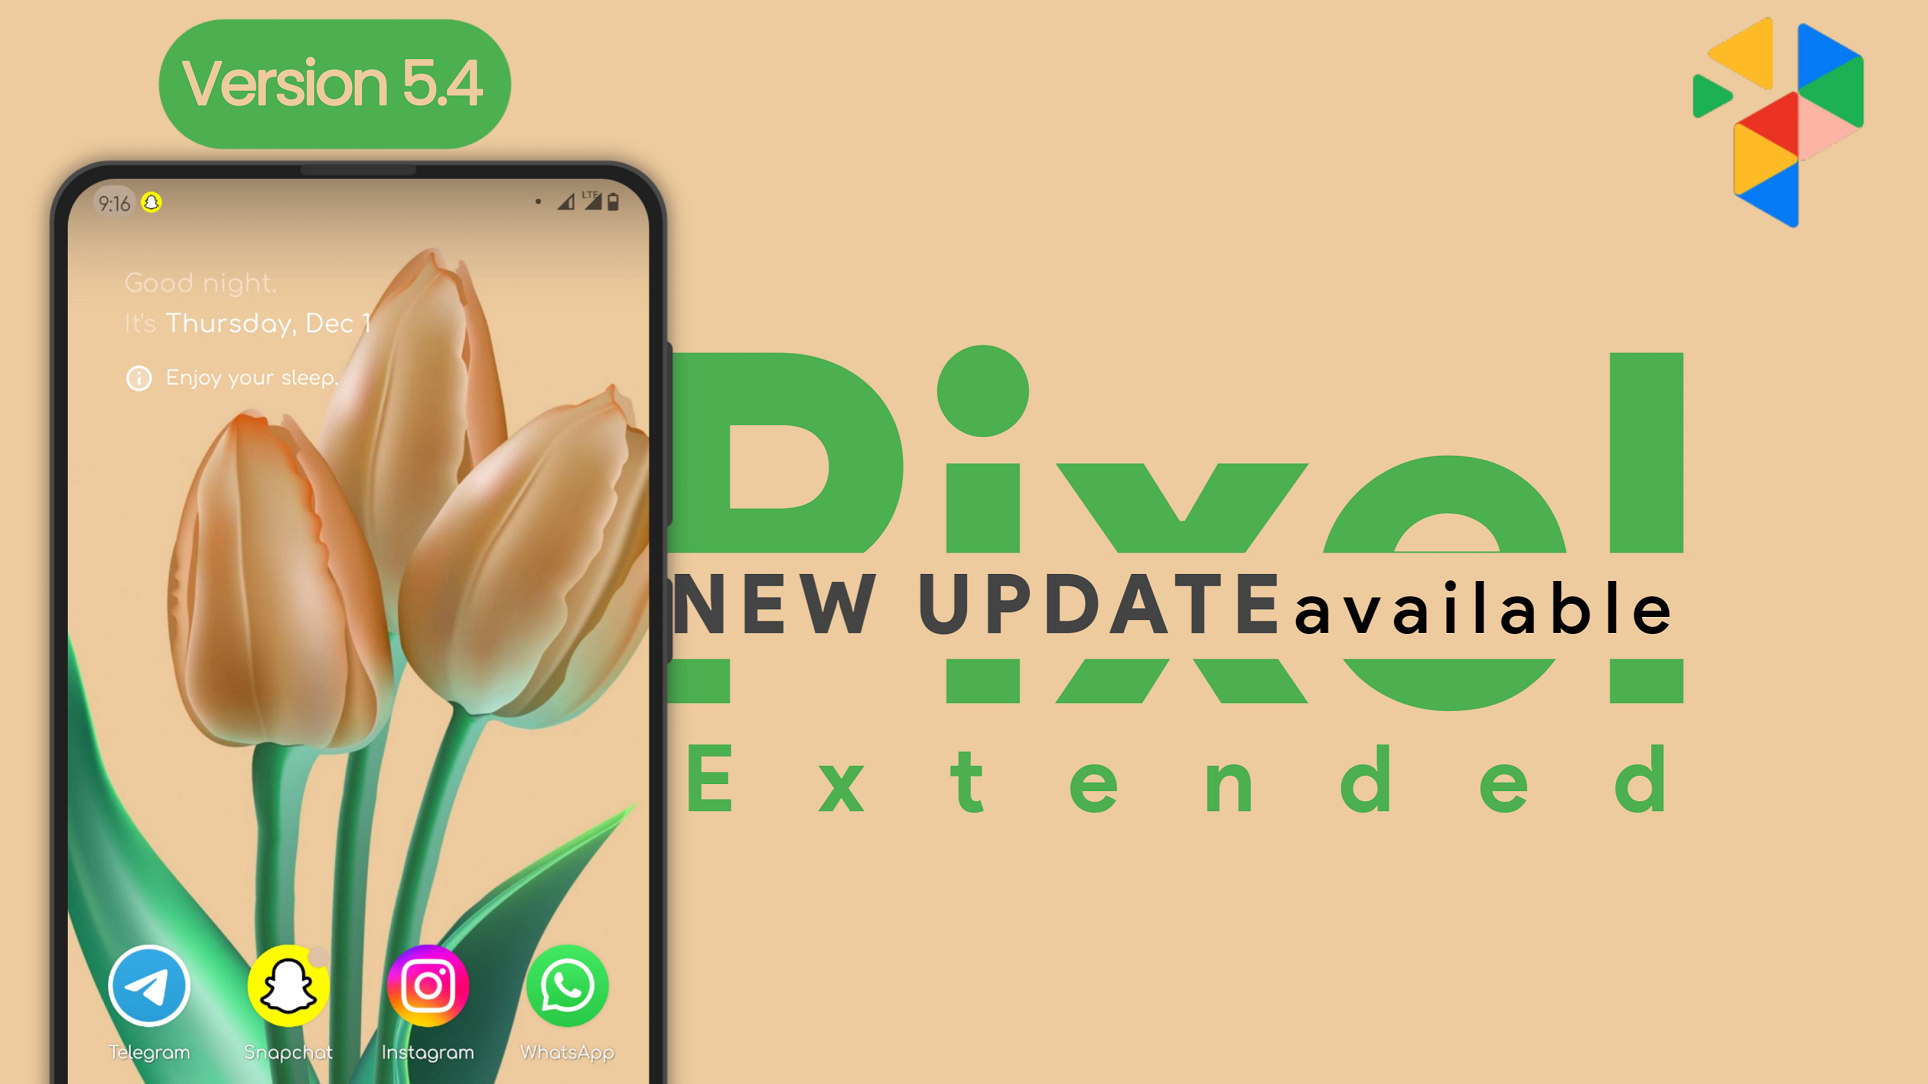
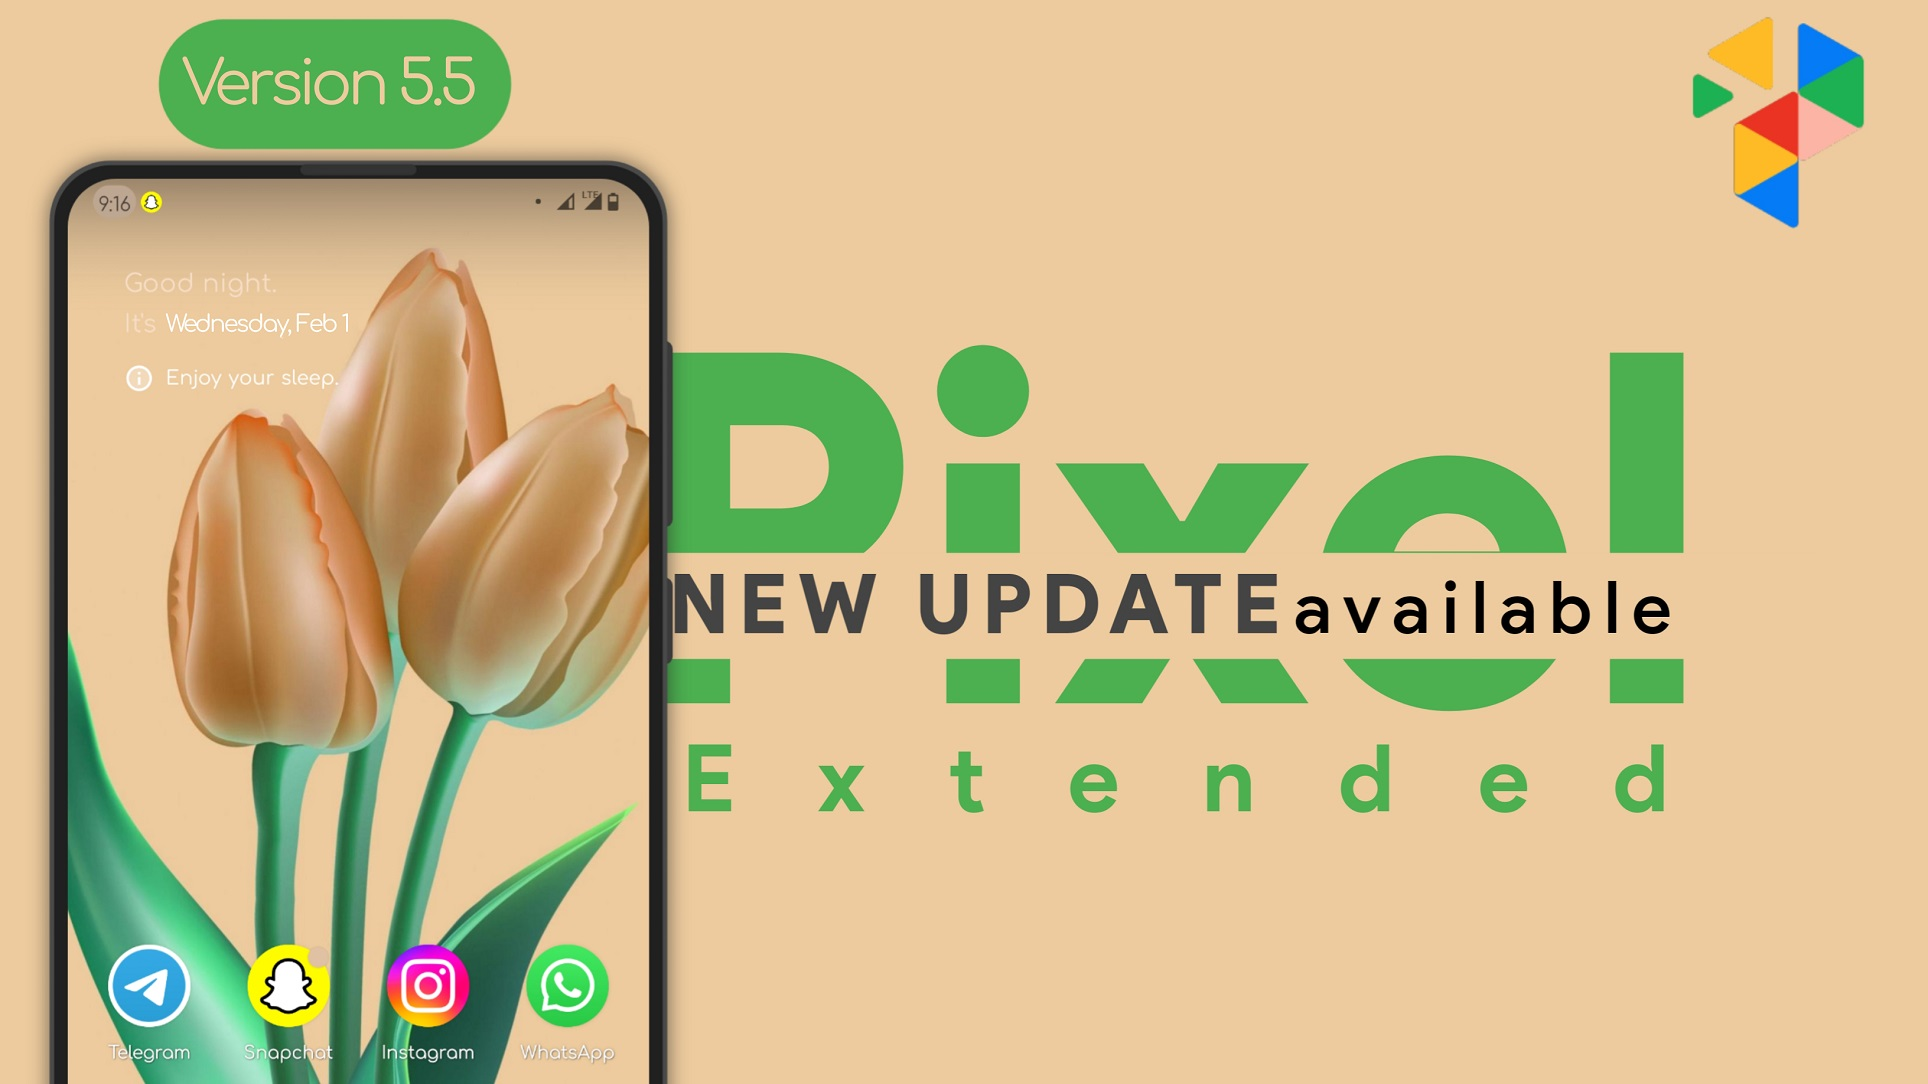
V5.5 Cold month!!

Changed region(s): [[0.0934, 0.0304, 0.249, 0.1218], [0.0934, 0.274, 0.1867, 0.3044], [0.2178, 0.8828, 0.249, 0.9133]]

diff --git a/changelog.md b/changelog.md
@@ -1,5 +1,15 @@
 # Changelog
 
+  # V5.5 (19.02.2023)
+
+  - February patch
+  - Safetynet fixed and pass by default
+  - QS tiles layout customizations
+  - QS vertical layout & hide label settings
+  - Implement full screen cutout force
+  - Switch to Stagbin for posting error logs
+  - ... and other small improvements
+
   # V5.4 (10.01.2023)
 
   - Total Source Rebase
